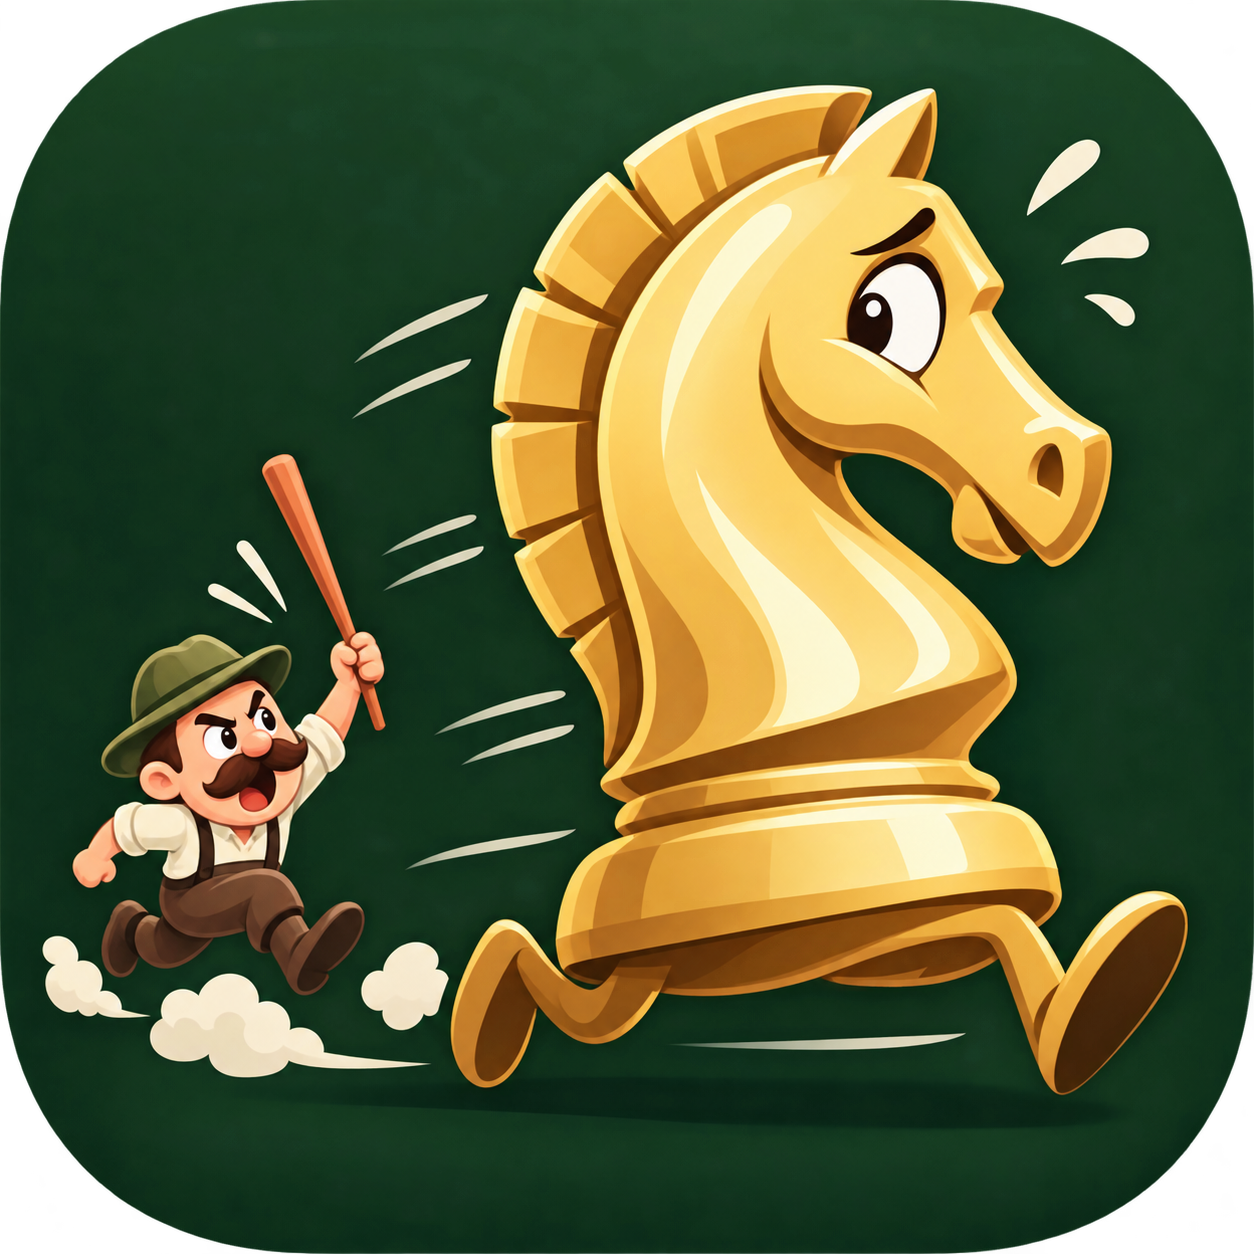
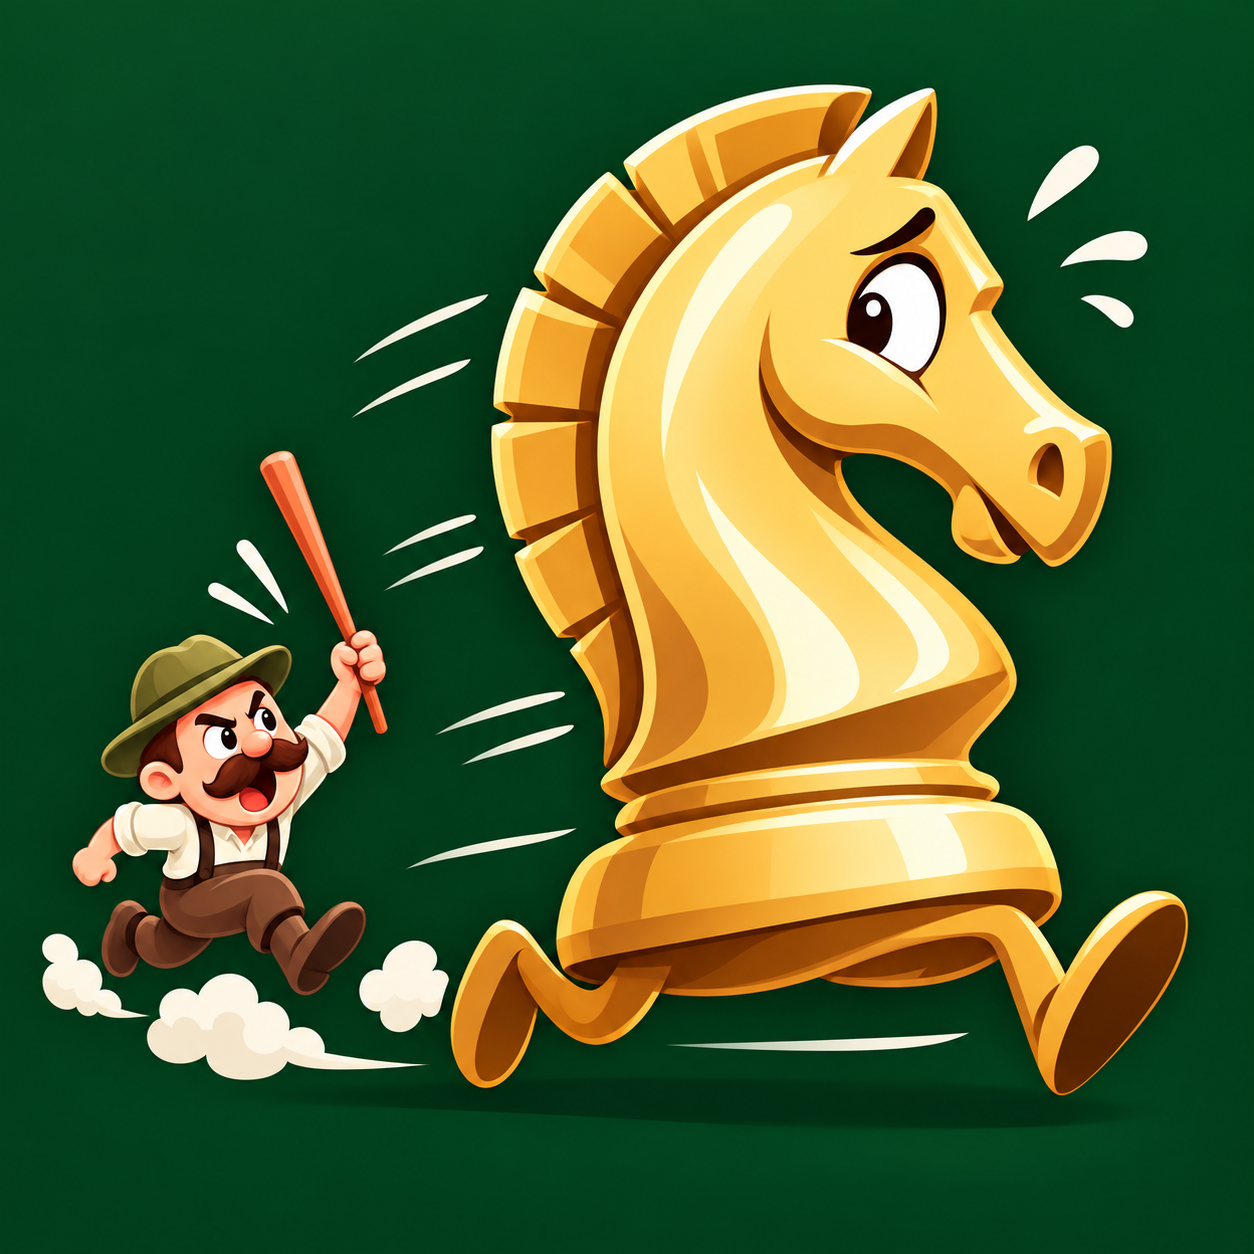
Fix practice deviations and PWA updates

diff --git a/src/App.tsx b/src/App.tsx
@@ -264,6 +264,8 @@ function App() {
   const [lastMove, setLastMove] = useState<{ from: Square; to: Square } | null>(null)
   const [moveBadge, setMoveBadge] = useState<MoveBadge | null>(null)
   const [feedback, setFeedback] = useState('')
+  const [practiceCorrection, setPracticeCorrection] = useState(false)
+  const [practiceDeviation, setPracticeDeviation] = useState(false)
   const [thinking, setThinking] = useState(false)
   const [freePlay, setFreePlay] = useState(false)
   const [mistakes, setMistakes] = useState<string[]>([])
@@ -281,7 +283,7 @@ function App() {
 
   const current = scenario.steps[step]
   const progress = Math.min(100, Math.round((step / scenario.steps.length) * 100))
-  const hint = screen === 'train' && mode === 'coach' && current ? moveParts(current.userMove) : null
+  const hint = screen === 'train' && current && (mode === 'coach' || practiceCorrection) ? moveParts(current.userMove) : null
   const playerSide = screen === 'rating' ? playerColor : trainingColor
   const gameFinished = Boolean(manualOutcome) || game.current.isGameOver()
   const analysedMove = analysisItems[analysisIndex]
@@ -315,6 +317,8 @@ function App() {
     setLegalTargets([])
     setLastMove(null)
     setMoveBadge(null)
+    setPracticeCorrection(false)
+    setPracticeDeviation(false)
     setManualOutcome(null)
     setAnalysisOpen(false)
     setAnalysisBusy(false)
@@ -360,8 +364,12 @@ function App() {
       styles[lastMove.from] = { backgroundColor: 'rgba(236,198,85,.35)' }
       styles[lastMove.to] = { backgroundColor: 'rgba(236,198,85,.35)' }
     }
+    if (practiceCorrection && hint) {
+      styles[hint.from] = { boxShadow: 'inset 0 0 0 5px #efbe4d' }
+      styles[hint.to] = { background: 'radial-gradient(circle, rgba(239,190,77,.95) 0 24%, rgba(239,190,77,.28) 26% 48%, transparent 50%)' }
+    }
     return styles
-  }, [selected, legalTargets, lastMove])
+  }, [selected, legalTargets, lastMove, practiceCorrection, hint])
 
   function start() {
     const source = trainingColor === 'w' ? italian.scenarios : italian.blackScenarios
@@ -481,10 +489,8 @@ function App() {
       void evaluateRatingMove(beforeFen, game.current.fen())
       return true
     }
-    setMoveBadge(isBookMove
-      ? { square: played.to, symbol: '📖', label: 'Теорія', tone: 'theory' }
-      : { square: played.to, symbol: '↗', label: 'Поза варіантом', tone: 'departure' })
     if (freePlay || !current) {
+      setMoveBadge(null)
       recordMove(beforeFen, played, 'player', openingIdeaNote(beforeFen, game.current.fen(), trainingColor))
       if (game.current.isGameOver()) {
         setFeedback(gameResultText(game.current, null))
@@ -493,6 +499,10 @@ function App() {
       void requestEngineMove()
       return true
     }
+
+    setMoveBadge(isBookMove
+      ? { square: played.to, symbol: '📖', label: 'Теорія', tone: 'theory' }
+      : { square: played.to, symbol: '↗', label: 'Поза варіантом', tone: 'departure' })
 
     if (uci !== current.userMove) {
       setMistakes((items) => [...items, `${played.san} замість ${current.userMove}`])
@@ -504,23 +514,33 @@ function App() {
         return true
       }
 
+      if (mode === 'practice') {
+        recordMove(beforeFen, played, 'player', `Відхилення від вивченого плану: очікувався хід ${current.userMove}. ${current.explanation}`)
+        setPracticeCorrection(false)
+        setPracticeDeviation(true)
+        setFeedback(`↗ ${played.san} — легальний хід, але він виходить із поточного дебютного варіанта.`)
+        return true
+      }
+
       game.current.undo()
       setFen(game.current.fen())
       setLastMove(null)
       setMoveBadge(null)
+      setPracticeCorrection(false)
       setFeedback(mode === 'coach'
         ? `Спробуй інакше. Ідея зараз: ${current.explanation}`
-        : 'Це легальний хід, але він відхиляється від поточного дебютного варіанта.')
+        : `Хід повернуто. Правильний напрямок підсвічено на дошці. ${current.explanation}`)
       return false
     }
 
+    setPracticeCorrection(false)
     recordMove(beforeFen, played, 'player')
     if (mode !== 'exam') setFeedback(`📖 Теорія · ${detectOpening(gameHistory.current.map((move) => move.uci))}. ${current.explanation}`)
     setThinking(true)
     const session = gameSession.current
     window.setTimeout(() => {
       if (session === gameSession.current) playCourseReply(current)
-    }, 500)
+    }, mode === 'practice' ? 900 : 500)
     return true
   }
 
@@ -600,6 +620,7 @@ function App() {
     const played = game.current.move({ from: reply.from, to: reply.to, promotion: reply.promotion || 'q' })
     recordMove(beforeFen, played, 'course')
     setLastMove({ from: reply.from, to: reply.to })
+    setMoveBadge(null)
     setFen(game.current.fen())
     setThinking(false)
 
@@ -613,7 +634,30 @@ function App() {
     }
 
     setStep(next)
-    if (mode === 'coach') setFeedback(lesson.opponentExplanation)
+    if (mode !== 'exam') setFeedback(lesson.opponentExplanation)
+  }
+
+  function undoPracticeDeviation() {
+    if (mode !== 'practice' || !practiceDeviation || thinking) return
+    game.current.undo()
+    gameHistory.current.pop()
+    setFen(game.current.fen())
+    setLastMove(null)
+    setMoveBadge(null)
+    setPracticeDeviation(false)
+    setPracticeCorrection(true)
+    setSelected(null)
+    setLegalTargets([])
+    setFeedback(`Хід повернуто. Правильний маршрут підсвічено. ${current?.explanation ?? ''}`)
+  }
+
+  function continuePracticeDeviation() {
+    if (mode !== 'practice' || !practiceDeviation || thinking) return
+    setPracticeDeviation(false)
+    setPracticeCorrection(false)
+    setFreePlay(true)
+    setFeedback('Гра продовжується нестандартно проти Stockfish.')
+    void requestEngineMove()
   }
 
   async function requestEngineMove(engineStrength = strength, ratingGame = false) {
@@ -630,6 +674,7 @@ function App() {
         const played = game.current.move({ from: move.from, to: move.to, promotion: move.promotion || 'q' })
         recordMove(beforeFen, played, 'engine')
         setLastMove({ from: move.from, to: move.to })
+        setMoveBadge(null)
         setFen(game.current.fen())
       }
       setThinking(false)
@@ -656,6 +701,8 @@ function App() {
     setLegalTargets([])
     setLastMove(null)
     setMoveBadge(null)
+    setPracticeCorrection(false)
+    setPracticeDeviation(false)
     setFeedback(`Повтори ідею: ${scenario.steps[previousStep].explanation}`)
   }
 
@@ -879,9 +926,10 @@ function App() {
 
       {screen !== 'rating' && <div className="progress-track"><span style={{ width: `${progress}%` }} /></div>}
 
-      <section className="coach-card">
+      <section className={`coach-card ${screen !== 'rating' && mode === 'practice' ? 'practice-mode' : ''}`}>
         <span className="mode-pill">{screen === 'rating' ? `Суперник ${strength === 3000 ? 'MAX' : strength} · аналіз MAX · ${playerColor === 'w' ? 'білі' : 'чорні'}` : `${modes.find((item) => item.id === mode)?.name} · ${trainingColor === 'w' ? 'білі' : 'чорні'}`}</span>
         <h2>{analysisOpen ? 'Повний аналіз партії' : screen === 'rating' ? (ratingResult ? 'Рівень визначено' : ratingStage === 'between' ? 'Половина оцінювання готова' : 'Грай без підказок') : gameFinished ? gameResultText(game.current, manualOutcome) : freePlay ? 'Мітельшпіль' : current?.title ?? 'Дебют завершено'}</h2>
+        <p className="feedback" aria-live="polite">{feedback || '\u00a0'}</p>
         <p className="coach-copy">
           {analysisOpen
             ? analysisBusy
@@ -895,8 +943,27 @@ function App() {
                 ? 'Зіграй дебют самостійно. Результат побачиш після завершення.'
                 : '\u00a0'}
         </p>
-        <p className="feedback" aria-live="polite">{feedback || '\u00a0'}</p>
       </section>
+
+      {screen === 'train' && mode === 'practice' && practiceDeviation && current && (
+        <section className="practice-correction" aria-live="assertive">
+          <strong>Відхилення від дебюту</strong>
+          <p>Хід залишився на дошці. За вивченим варіантом очікувався хід <b>{current.userMove.slice(0, 2)}</b> → <b>{current.userMove.slice(2, 4)}</b>.</p>
+          <small>{current.explanation}</small>
+          <div className="deviation-actions">
+            <button className="secondary" onClick={undoPracticeDeviation}>← Повернути хід</button>
+            <button className="primary" onClick={continuePracticeDeviation}>Продовжити нестандартно</button>
+          </div>
+        </section>
+      )}
+
+      {screen === 'train' && mode === 'practice' && practiceCorrection && current && hint && (
+        <section className="practice-correction" aria-live="assertive">
+          <strong>Спробуй теоретичний хід</strong>
+          <p>Зроби хід із <b>{hint.from}</b> на підсвічене поле <b>{hint.to}</b>.</p>
+          <small>{current.explanation}</small>
+        </section>
+      )}
 
       <section className="board-wrap" aria-label="Шахова дошка">
         <Chessboard options={{
@@ -920,7 +987,11 @@ function App() {
           onSquareClick: ({ square }) => chooseSquare(square as Square),
         }} />
         {displayedBadge && (
-          <div className={`move-badge ${displayedBadge.tone}`} style={badgePosition(displayedBadge.square, playerSide)} title={displayedBadge.label} aria-label={displayedBadge.label}>{displayedBadge.symbol}</div>
+          <div className={`move-badge ${displayedBadge.tone}`} style={badgePosition(displayedBadge.square, playerSide)} title={displayedBadge.label} aria-label={displayedBadge.label}>
+            {displayedBadge.tone === 'theory'
+              ? <svg viewBox="0 0 24 24" aria-hidden="true"><path d="M4 5.5c3.2-.7 5.8 0 8 1.8v11c-2.2-1.8-4.8-2.5-8-1.8v-11Zm16 0c-3.2-.7-5.8 0-8 1.8v11c2.2-1.8 4.8-2.5 8-1.8v-11Z" /></svg>
+              : displayedBadge.symbol}
+          </div>
         )}
       </section>
 

diff --git a/src/styles.css b/src/styles.css
@@ -123,16 +123,27 @@ section { margin-bottom: 26px; }
 .progress-track { height: 3px; margin-bottom: 18px; overflow: hidden; border-radius: 99px; background: var(--surface-2); }
 .progress-track span { display: block; height: 100%; border-radius: inherit; background: var(--gold); transition: width .3s ease; }
 
-.coach-card { min-height: 142px; margin-bottom: 14px; padding: 17px; border: 1px solid var(--line); border-radius: 18px; background: linear-gradient(140deg, rgba(216, 182, 106, .08), var(--surface)); }
-.mode-pill { display: inline-block; margin-bottom: 10px; padding: 4px 8px; border-radius: 999px; color: var(--gold); background: rgba(216, 182, 106, .1); font-size: 9px; font-weight: 800; letter-spacing: .09em; text-transform: uppercase; }
-.coach-card h2 { min-height: 58px; margin: 0 0 8px; font-family: 'Playfair Display', Georgia, serif; font-size: 24px; line-height: 1.2; }
-.coach-card p { margin: 0; color: var(--muted); font-size: 12px; line-height: 1.5; }
-.coach-card .coach-copy { height: 54px; overflow-y: auto; }
-.coach-card .feedback { height: 36px; margin-top: 9px; overflow-y: auto; color: var(--cream); }
+.coach-card { min-height: 0; margin-bottom: 11px; padding: 14px 15px; border: 1px solid var(--line); border-radius: 18px; background: linear-gradient(140deg, rgba(216, 182, 106, .08), var(--surface)); }
+.mode-pill { display: inline-block; margin-bottom: 7px; padding: 4px 8px; border-radius: 999px; color: var(--gold); background: rgba(216, 182, 106, .1); font-size: 9px; font-weight: 800; letter-spacing: .09em; text-transform: uppercase; }
+.coach-card h2 { min-height: 29px; margin: 0 0 6px; font-family: 'Playfair Display', Georgia, serif; font-size: 22px; line-height: 1.2; }
+.coach-card p { margin: 0; color: var(--muted); font-size: 13px; line-height: 1.45; }
+.coach-card .coach-copy { height: 34px; overflow-y: auto; }
+.coach-card .feedback { height: 42px; margin: 0 0 5px; overflow-y: auto; color: var(--cream); scrollbar-width: thin; }
+.coach-card.practice-mode .coach-copy { display: none; }
+.coach-card.practice-mode .feedback { height: 52px; margin-bottom: 0; }
 
+.practice-correction { margin: -2px 0 12px; padding: 13px 15px; border: 2px solid var(--gold); border-radius: 14px; color: var(--cream); background: #252316; box-shadow: 0 8px 24px rgba(0,0,0,.24); }
+.practice-correction strong { display: block; margin-bottom: 5px; color: var(--gold); font-size: 14px; }
+.practice-correction p { margin: 0 0 5px; font-size: 13px; line-height: 1.45; }
+.practice-correction small { display: block; color: var(--muted); font-size: 11px; line-height: 1.45; }
+.practice-correction b { color: var(--gold); text-transform: uppercase; }
+.deviation-actions { display: grid; grid-template-columns: 1fr 1.15fr; gap: 8px; margin-top: 12px; }
+.deviation-actions button { min-height: 46px; margin: 0; padding: 10px 12px; font-size: 11px; line-height: 1.25; }
+.deviation-actions .primary { display: block; }
 .board-wrap { position: relative; width: 100%; margin: 0 0 12px; touch-action: none; user-select: none; -webkit-user-select: none; }
-.move-badge { position: absolute; z-index: 8; display: grid; width: 25px; height: 25px; place-items: center; border: 2px solid rgba(255,255,255,.82); border-radius: 50%; color: #fff; background: #3f6755; box-shadow: 0 3px 8px rgba(0,0,0,.45); font-size: 11px; font-weight: 950; line-height: 1; pointer-events: none; transform: translate(-50%, 0); }
-.move-badge.theory { background: #8a65bb; font-size: 13px; }
+.move-badge { position: absolute; z-index: 8; display: grid; width: 29px; height: 29px; place-items: center; border: 2px solid rgba(255,255,255,.92); border-radius: 50%; color: #fff; background: #3f6755; box-shadow: 0 3px 9px rgba(0,0,0,.52); font-size: 12px; font-weight: 950; line-height: 1; pointer-events: none; transform: translate(-50%, 0); }
+.move-badge svg { width: 17px; height: 17px; fill: none; stroke: currentColor; stroke-width: 1.8; stroke-linecap: round; stroke-linejoin: round; }
+.move-badge.theory { background: #7653a2; }
 .move-badge.brilliant { background: #147e83; }
 .move-badge.great { background: #287d4c; }
 .move-badge.good { background: #426552; }

diff --git a/public/sw.js b/public/sw.js
@@ -1,15 +1,19 @@
-const CACHE = 'debut-offline-v17'
+const CACHE = 'debut-offline-v18'
 const CORE = [
-  './', './index.html', './manifest.webmanifest',
-  './assets/app.js', './assets/app.css',
-  './icon-192.png', './icon-512.png',
+  './', './index.html', './manifest.webmanifest?v=18',
+  './icon-192-v4.png', './icon-512-v4.png', './apple-touch-icon-v4.png',
   './stockfish/stockfish-19-lite-single.js',
   './stockfish/stockfish-19-lite-single.wasm',
   './stockfish/Copying.txt', './stockfish/SOURCE.txt',
 ]
 
 self.addEventListener('install', (event) => {
-  event.waitUntil(caches.open(CACHE).then((cache) => cache.addAll(CORE)))
+  event.waitUntil(caches.open(CACHE).then(async (cache) => {
+    await cache.addAll(CORE)
+    const html = await fetch('./index.html', { cache: 'no-store' }).then((response) => response.text())
+    const assets = [...html.matchAll(/(?:src|href)="(\.\/assets\/[^"]+)"/g)].map((match) => match[1])
+    await cache.addAll(assets)
+  }))
   self.skipWaiting()
 })
 
@@ -33,18 +37,6 @@ self.addEventListener('fetch', (event) => {
           return response
         })
         .catch(() => caches.match('./index.html')),
-    )
-    return
-  }
-
-  if (url.pathname.endsWith('/assets/app.js') || url.pathname.endsWith('/assets/app.css')) {
-    event.respondWith(
-      fetch(event.request)
-        .then((response) => {
-          if (response.ok) caches.open(CACHE).then((cache) => cache.put(event.request, response.clone()))
-          return response
-        })
-        .catch(() => caches.match(event.request)),
     )
     return
   }

diff --git a/src/main.tsx b/src/main.tsx
@@ -4,7 +4,16 @@ import App from './App'
 import './styles.css'
 
 if ('serviceWorker' in navigator && import.meta.env.PROD) {
-  window.addEventListener('load', () => navigator.serviceWorker.register(`${import.meta.env.BASE_URL}sw.js`))
+  window.addEventListener('load', async () => {
+    try {
+      const registration = await navigator.serviceWorker.register(`${import.meta.env.BASE_URL}sw.js`, {
+        updateViaCache: 'none',
+      })
+      await registration.update()
+    } catch {
+      // Offline launch still works from the current cache.
+    }
+  })
 }
 
 createRoot(document.getElementById('root')!).render(

diff --git a/index.html b/index.html
@@ -7,8 +7,8 @@
     <meta name="apple-mobile-web-app-capable" content="yes" />
     <meta name="apple-mobile-web-app-status-bar-style" content="black-translucent" />
     <meta name="apple-mobile-web-app-title" content="Дебют" />
-    <link rel="manifest" href="./manifest.webmanifest" />
-    <link rel="apple-touch-icon" href="./icon-192.png?v=3" />
+    <link rel="manifest" href="./manifest.webmanifest?v=18" />
+    <link rel="apple-touch-icon" sizes="180x180" href="./apple-touch-icon-v4.png" />
     <title>Дебют — шаховий тренер</title>
   </head>
   <body>

diff --git a/vite.config.ts b/vite.config.ts
@@ -5,13 +5,4 @@ export default defineConfig({
   base: './',
   plugins: [react()],
   server: { host: true },
-  build: {
-    rollupOptions: {
-      output: {
-        entryFileNames: 'assets/app.js',
-        chunkFileNames: 'assets/[name].js',
-        assetFileNames: (asset) => asset.name?.endsWith('.css') ? 'assets/app.css' : 'assets/[name][extname]',
-      },
-    },
-  },
 })
